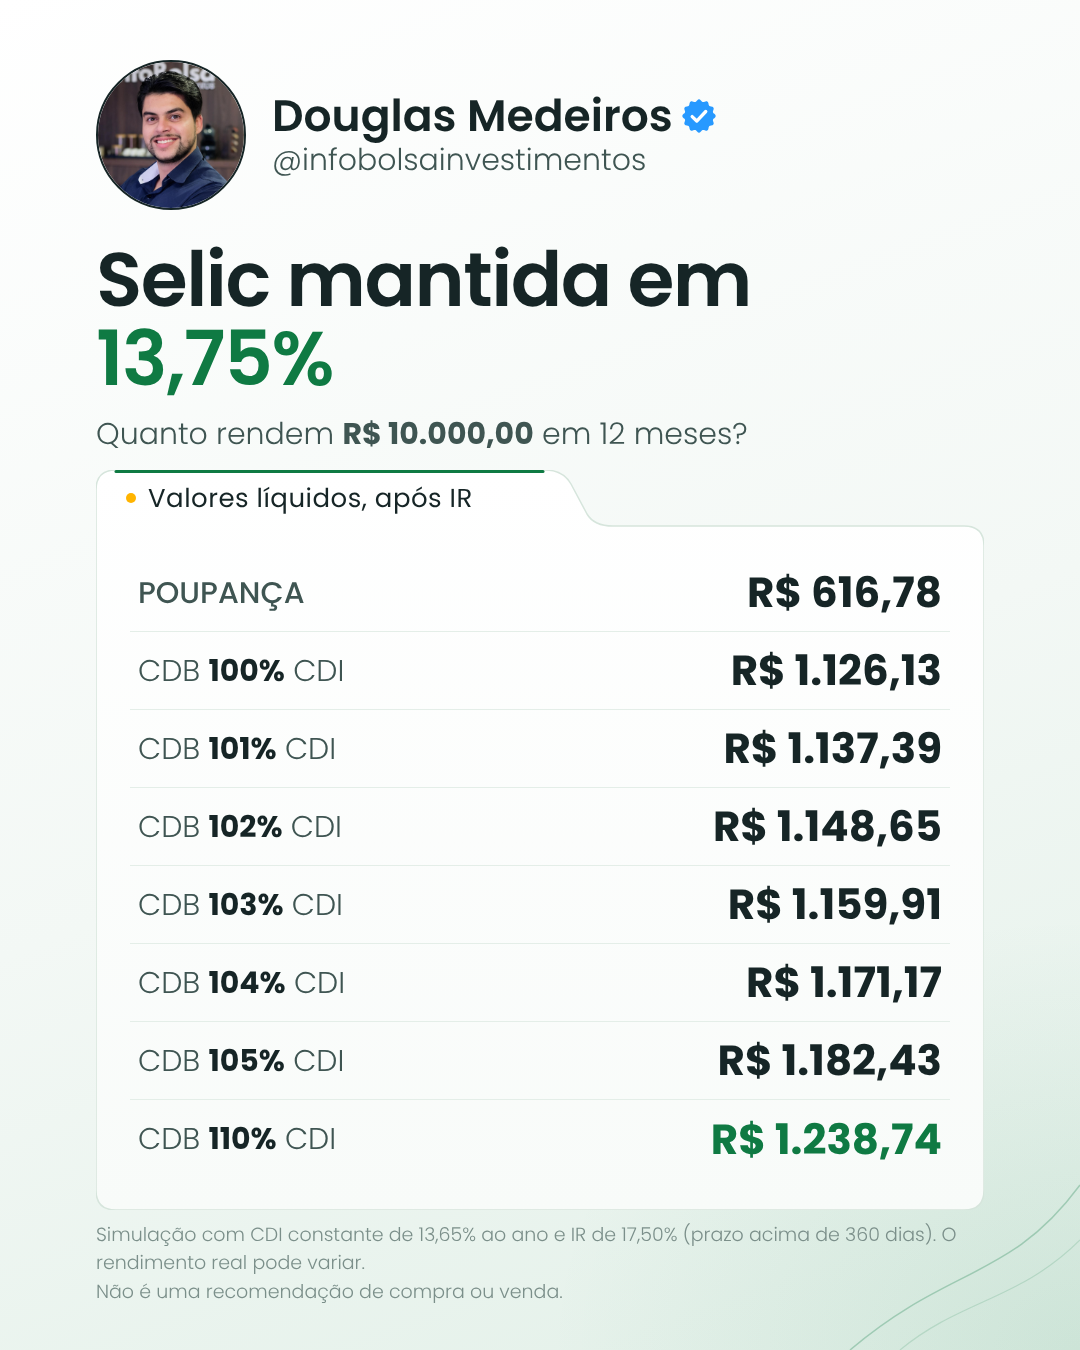
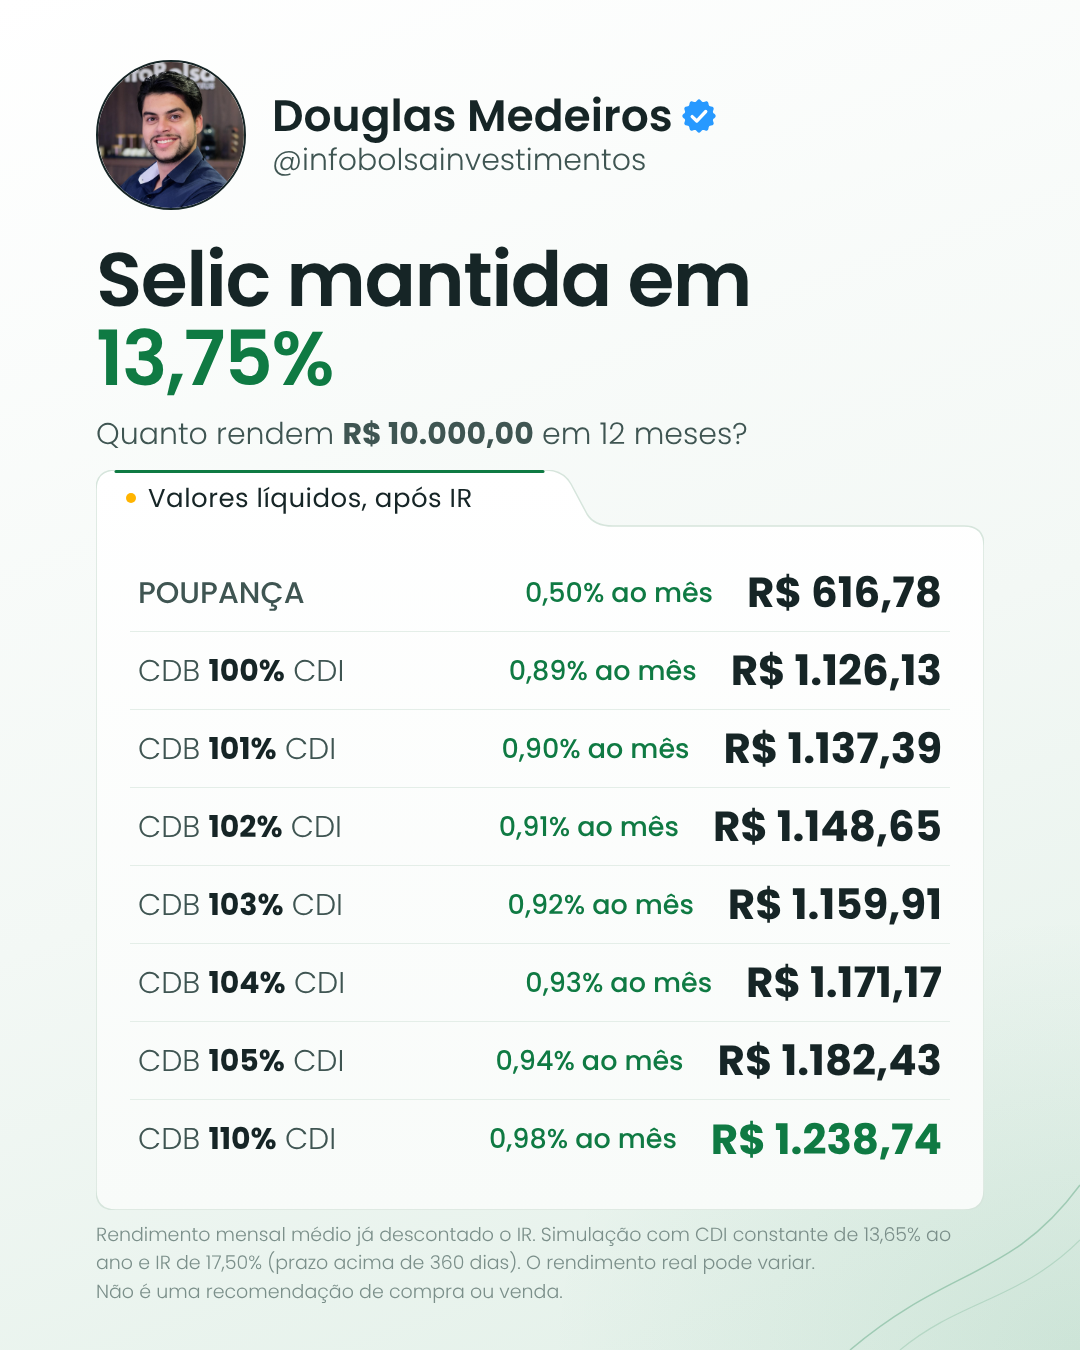
Post Selic: adiciona rendimento mensal líquido
Claude-Session: https://claude.ai/code/session_013SDx5YNf6zq2wuMAeYCFsa

diff --git a/kit/gen_cdb.py b/kit/gen_cdb.py
@@ -7,14 +7,15 @@ def liq(p): return base*cdi*(p/D(100))*ir
 linhas=[("POUPANÇA",D('616.78'))]+[(f"CDB <b>{p}%</b> CDI",liq(D(p)).quantize(D('0.01'),rounding=ROUND_HALF_UP)) for p in (100,101,102,103,104,105,110)]
 rows=''
 for i,(n,v) in enumerate(linhas):
-    rows+=f'<div class="cr{" p" if i==0 else ""}"><span>{n}</span><b>R$ {brl(v)}</b></div>'
+    m=((1+v/base)**(D(1)/D(12))-1)*100
+    rows+=f'<div class="cr{" p" if i==0 else ""}"><span>{n}</span><em>{brl(m.quantize(D("0.01"),rounding=ROUND_HALF_UP))}% ao mês</em><b>R$ {brl(v)}</b></div>'
 css='''<style>.cr{display:flex;align-items:center;justify-content:space-between;height:78px;border-bottom:1px solid var(--linha);padding:0 8px}
 .cr:last-child{border-bottom:0}.cr span{font-size:30px;color:var(--sub)}.cr span b{font-weight:700;color:var(--fg)}
-.cr>b{font-size:42px;font-weight:700;color:var(--fg);white-space:nowrap}.cr.p span{font-weight:500}
+.cr em{font-style:normal;font-size:27px;font-weight:500;color:var(--acc);margin-left:auto;margin-right:34px;width:230px;text-align:right;white-space:nowrap}.cr>b{font-size:42px;font-weight:700;color:var(--fg);white-space:nowrap}.cr.p span{font-weight:500}
 .cr:nth-child(8)>b{color:var(--acc)}.ne{margin-top:14px;text-align:center;font-size:22px;color:var(--mute)}</style>'''
 miolo=css+f'<div style="position:absolute;left:34px;right:34px;top:84px">{rows}</div>'
 corpo=pasta(470,740,"Valores líquidos, após IR",miolo,"verde")
-html=pagina("verde",'Selic mantida em <span>13,75%</span>','Quanto rendem <b style="font-weight:700">R$ 10.000,00</b> em 12 meses?',corpo,["Simulação com CDI constante de 13,65% ao ano e IR de 17,50% (prazo acima de 360 dias). O rendimento real pode variar.","Não é uma recomendação de compra ou venda."],tsize=76)
+html=pagina("verde",'Selic mantida em <span>13,75%</span>','Quanto rendem <b style="font-weight:700">R$ 10.000,00</b> em 12 meses?',corpo,["Rendimento mensal médio já descontado o IR. Simulação com CDI constante de 13,65% ao ano e IR de 17,50% (prazo acima de 360 dias). O rendimento real pode variar.","Não é uma recomendação de compra ou venda."],tsize=76)
 open('tc.html','w').write(html)
 os.makedirs('../pronto/2026-11-04-cdb',exist_ok=True)
 os.system('python3 render.py tc.html ../pronto/2026-11-04-cdb/1.png')
